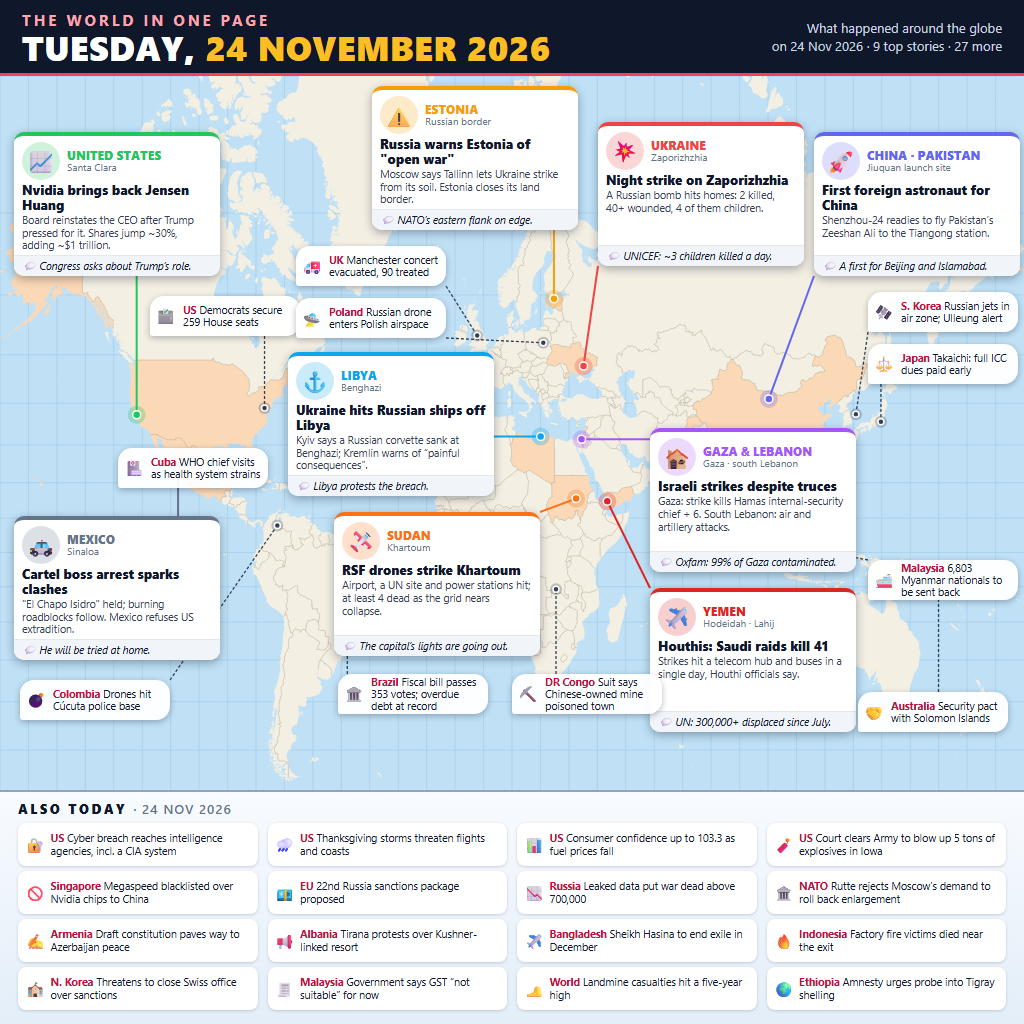
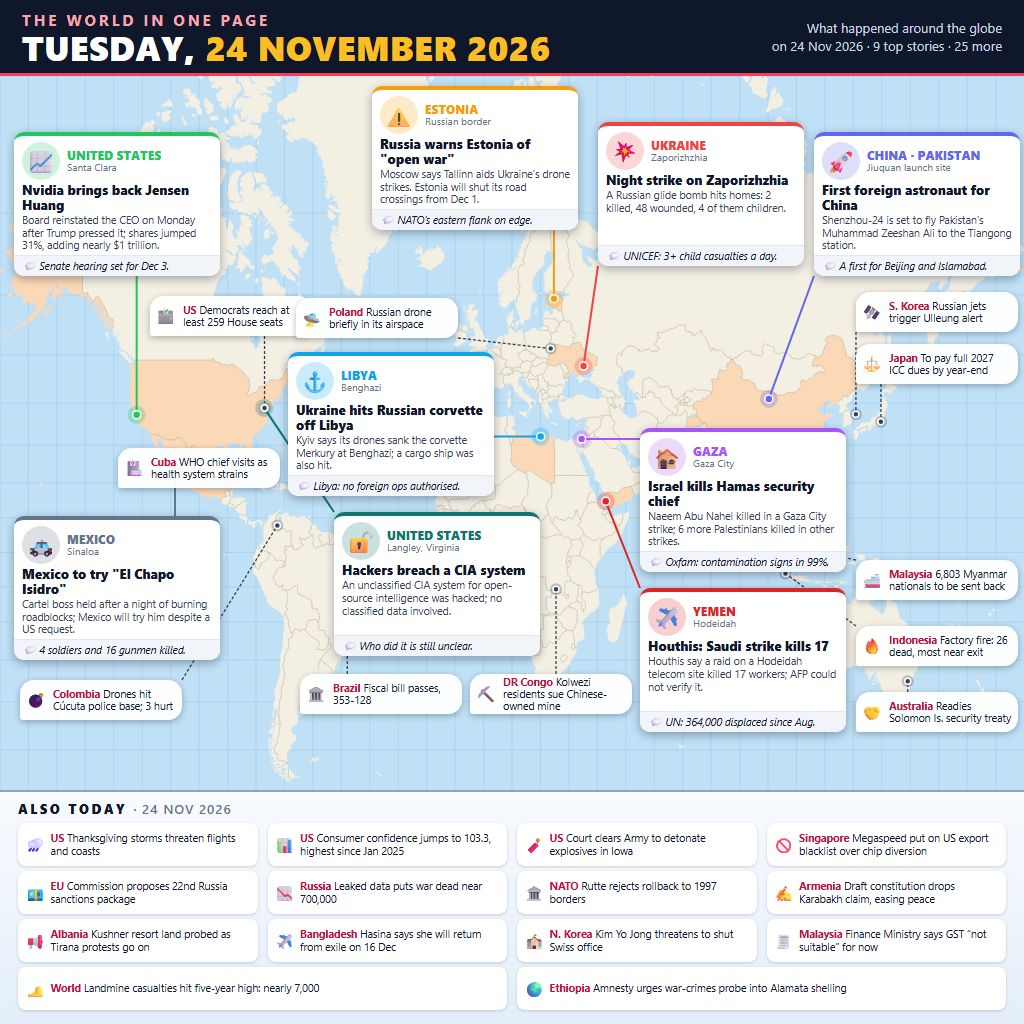
Fact-check every story and add a source ledger
Rewords cards to match wire and major-outlet reporting (Zaporizhzhia 2 killed,
48 wounded; a single corvette in the Libya headline; Yemen's sourced toll of 17),
drops stories from 22 Nov or without a reliable source (Sudan, Manchester,
south Lebanon), adds the CIA breach, and records every source in SOURCES.md.

diff --git a/SOURCES.md b/SOURCES.md
@@ -1,0 +1,121 @@
+# Source ledger — world news of Tuesday 24 November 2026
+
+Every story on [entry.png](entry.png), with the sources that support its wording. Checked on 25 Nov 2026.
+
+- **Read** = the page was opened and its text read. **Search only** = the URL and facts come from search results; the page itself was not opened (paywall, block or timeout). Every story has at least one read source.
+- **Date rule:** an event is kept if it happened on 24 Nov, or on 23 Nov and was still developing or first reported on 24 Nov. Events from 22 Nov or earlier were removed (see the end).
+- Casualty figures from parties to a conflict are attributed on the image ("Houthis say", "Kyiv says").
+
+## Major stories (9 large cards)
+
+### 1. United States — Nvidia brings back Jensen Huang
+On the image: *Board reinstated the CEO on Monday after Trump pressed it; shares jumped 31%, adding nearly $1 trillion.* · *Senate hearing set for Dec 3.*
+Date: reinstatement and share jump Mon 23 Nov; congressional fallout continued on 24 Nov.
+- CNBC, "Jensen Huang reinstated as Nvidia CEO. Stock skyrockets 31%", 23 Nov — **read** — https://www.cnbc.com/2026/11/23/nvidia-jensen-huang-ceo.html — reinstated "effective immediately", unanimous board vote with "input from senior levels of the United States government"; shares "closed up 31%"; Trump spoke to the board "directly and indirectly"; Sen. Tim Scott: Huang to testify at a Dec 3 hearing.
+- NBC News, "Jensen Huang reinstated as Nvidia CEO after Trump pushes board", 23 Nov — **read** — https://www.nbcnews.com/tech/tech-news/nvidia-reinstates-jensen-huang-rcna610864 — stock up 31%; senators Cornyn and Warren question Trump's role.
+- Yahoo Finance, "Nvidia Adds Nearly $1 Trillion in Value…", 23 Nov (US time) — **read** — https://finance.yahoo.com/markets/stocks/articles/nvidia-adds-nearly-1-trillion-221300670.html — "jumped 31% and added nearly $1 trillion of market value" (intraday).
+- Search only: Nvidia 8-K https://www.sec.gov/Archives/edgar/data/0001045810/000104581026000090/nov23pressrelease.htm · Bloomberg https://www.bloomberg.com/news/articles/2026-11-23/nvidia-reinstates-jensen-huang-as-ceo-with-government-input
+
+### 2. Estonia — Russia warns Estonia of "open war"
+On the image: *Moscow says Tallinn aids Ukraine's drone strikes. Estonia will shut its road crossings from Dec 1.* · *NATO's eastern flank on edge.* (editorial comment)
+Date: Russian Foreign Ministry statement Mon 23 Nov; Estonian PM comments and wide coverage 24 Nov.
+- Al Jazeera, "Russia threatens 'hostile' Estonia with 'open war'", 23 Nov — **read** — https://www.aljazeera.com/news/2026/11/23/russia-threatens-hostile-estonia-with-open-war — "on the verge of triggering open war with Russia"; crossings close "from December 1 for at least six months"; Estonia denies its territory is used.
+- CNBC, "Russia warns NATO member Estonia of 'open war'", 24 Nov — **read** — https://www.cnbc.com/2026/11/24/russia-estonia-ukraine-war-nato-finland.html — road crossings close from Dec 1.
+- Kyiv Post, 24 Nov — **read** — https://www.kyivpost.com/post/91134 — rail crossing still open; PM Michal on 24 Nov says closing it is possible.
+
+### 3. Ukraine — Night strike on Zaporizhzhia
+On the image: *A Russian glide bomb hits homes: 2 killed, 48 wounded, 4 of them children.* · *UNICEF: 3+ child casualties a day.*
+Date: overnight attack reported Tue 24 Nov.
+- AP (Arhirova, Hatton), "A Russian strike on Ukraine kills 2 and wounds 48 as Kyiv explains its attack in Libya", 24 Nov — **read** via KSAT — https://www.ksat.com/business/2026/11/24/a-russian-strike-on-ukraine-kills-2-and-wounds-48-as-kyiv-explains-its-attack-in-libya/ — 2 civilians killed, 48 wounded incl. 4 children; glide bomb; destroyed a private house and partly destroyed a five-storey building.
+- Boston Globe (same AP story), 24 Nov — **read** — https://www.bostonglobe.com/2026/11/24/world/russian-strike-ukraine-kills-2-wounds-48-kyiv-explains-its-attack-libya/
+- UNICEF, "Child casualties in Ukraine reach highest level in almost four years", 20 Nov — **read** — https://www.unicef.org/ukraine/en/press-releases/child-casualties-ukraine-reach-highest-level-almost-four-years-unicef — "an average of more than three children killed or injured every single day" (1,144 child casualties Jan–Oct 2026). The comment says *casualties*, not deaths.
+
+### 4. Libya — Ukraine hits Russian corvette off Libya
+On the image: *Kyiv says its drones sank the corvette Merkury at Benghazi; a cargo ship was also hit.* · *Libya: no foreign ops authorised.*
+Date: strike Sun 22 Nov; Zelensky's claim 23 Nov; Ukraine's explanation and Libya's protest reported 24 Nov (AP).
+- AP via KSAT, 24 Nov — **read** — (URL in story 3) — Libyan Foreign Ministry did not authorise "any foreign military operations within (Libya's) territory or territorial waters"; Ukraine "intended no harm to Libya"; photo captions name Merkury and MV Angara.
+- Time, "Zelensky Says Ukraine Sank Russian Warship at Naval Base in Libya", 23 Nov — **read** — https://time.com/article/2026/11/23/zelensky-says-ukraine-sank-russian-warship-at-naval-base-in-libya/ — drones "struck and sank the Russian corvette Mercury"; MV Angara also hit.
+- Al Jazeera, "Russia warns Ukraine of 'dangerous trend' after Libya and Baltic attacks", 23 Nov — **read** — https://www.aljazeera.com/news/2026/11/23/russia-warns-ukraine-of-dangerous-trend-after-libya-and-baltic-attacks
+- Note: the headline names the single corvette (the sunk vessel); the summary mentions the cargo ship, which sources say was hit, not sunk.
+
+### 5. Gaza — Israel kills Hamas security chief
+On the image: *Naeem Abu Nahel killed in a Gaza City strike; 6 more Palestinians killed in other strikes.* · *Oxfam: contamination signs in 99%.*
+Date: 24 Nov.
+- BBC via Yahoo, 24 Nov — **read** — https://www.yahoo.com/news/world/articles/israeli-air-strike-kills-hamas-121253345.html — "Naeem Abu Nahel", head of Hamas's internal security service; at least seven killed; "the six other people were killed in two earlier air strikes elsewhere in Gaza".
+- Times of Israel, "Israel kills Hamas security chief in Gaza City…", 24 Nov — **read** — https://www.timesofisrael.com/israel-kills-hamas-security-chief-in-gaza-city-weeks-after-capturing-predecessor/ — spells it "Naim Abu Nahal"; 3 killed in Khan Younis and 3 in Wadi Gaza.
+- ABC News (Australia), "Research finds more than 99 per cent of Gaza contaminated…", 24 Nov — **read** — https://www.abc.net.au/news/2026-11-24/israel-s-bombardment-turns-gaza-into-toxic-wasteland/107419898 — Oxfam/CEOBS report: Gaza "shows signs of contamination".
+
+### 6. Yemen — Houthis: Saudi strike kills 17
+On the image: *Houthis say a raid on a Hodeidah telecom site killed 17 workers; AFP could not verify it.* · *UN: 364,000 displaced since Aug.*
+Date: strike Mon 23 Nov; toll updated and reported 24 Nov.
+- Dawn (AFP), "Houthis say air strikes by Saudi-led coalition kill 17 in Yemen", 24 Nov — **read** — https://www.dawn.com/news/2046665/houthis-say-air-strikes-by-saudi-led-coalition-kill-17-in-yemen — AFP could not verify; buses also hit in Lahj, "causing casualties".
+- Xinhua, "Death toll from airstrikes on Yemen's Hodeidah rises to 17: Houthi media", 24 Nov — **read** — https://english.news.cn/20261124/dabb567e6907437eae42ccc4a2ccbcb3/c.html — 17 dead, 11 injured.
+- Middle East Eye, 23 Nov — **read** — https://www.middleeasteye.net/live-blog/live-blog-update/yemens-houthis-say-saudi-attack-telecoms-facilities-kills-17
+- UN News, "World News in Brief…", 24 Nov — **read** — https://news.un.org/en/story/2026/11/1168871 — "More than 364,000 people have been displaced in Yemen since the beginning of August."
+- **The "41 killed" figure was dropped:** the only reliable source for it, Middle East Eye (20 Nov, read, https://www.middleeasteye.net/live-blog/live-blog-update/houthis-say-41-killed-saudi-led-coalition-launches-special-operation), is a Houthi claim from 20 Nov, not tied to the telecom site or buses. Only Democracy Now (an aggregator) combined them.
+
+### 7. United States — Hackers breach a CIA system (replaces Sudan)
+On the image: *An unclassified CIA system for open-source intelligence was hacked; no classified data involved.* · *Who did it is still unclear.*
+Date: reported 24 Nov.
+- AP via Federal News Network, "An unclassified CIA system was breached in a cyberattack, AP source says", 24 Nov — **read** — https://federalnewsnetwork.com/cybersecurity/2026/11/an-unclassified-cia-system-was-breached-in-a-cyberattack-ap-source-says/ — system "handles open source intelligence"; "did not involve any classified information".
+- Nextgov/FCW, "CIA, ODNI unclassified intelligence system hacked", 24 Nov — **read** — https://www.nextgov.com/cybersecurity/2026/11/cia-odni-unclassified-intelligence-system-hacked/417438/ — "It's unclear who carried it out".
+- Search only: Washington Post https://www.washingtonpost.com/national-security/2026/11/24/hackers-breach-cia-unclassified-computer-system/ · Bloomberg https://www.bloomberg.com/news/articles/2026-11-24/hackers-breach-cia-system-to-access-unclassified-information
+
+### 8. China · Pakistan — First foreign astronaut for China
+On the image: *Shenzhou-24 is set to fly Pakistan's Muhammad Zeeshan Ali to the Tiangong station.* · *A first for Beijing and Islamabad.*
+Date: launch 25 Nov 00:18 UTC (08:18 Beijing); on 24 Nov it was imminent, hence "is set to fly".
+- Dawn, "'A new era begins': Pakistan's Zeeshan Ali becomes first foreigner to board China's Tiangong", 25 Nov — **read** — https://www.dawn.com/news/2046753 — launch times; crew Tang Hongbo, Wu Yi; first foreign crew member on the station.
+- NBC News, "China's Shenzhou 24 spacecraft docks at space station with first foreign astronaut", 25 Nov — **read** — https://www.nbcnews.com/world/china/china-shenzhou-24-spacecraft-docks-space-station-foreign-astronaut-rcna611251
+- Al Jazeera, "Pakistan's Zeeshan Ali set for historic flight to China's space station", 24 Nov — search only — https://www.aljazeera.com/news/2026/11/24/pakistans-zeeshan-ali-set-for-historic-flight-to-chinas-space-station
+
+### 9. Mexico — Mexico to try "El Chapo Isidro"
+On the image: *Cartel boss held after a night of burning roadblocks; Mexico will try him despite a US request.* · *4 soldiers and 16 gunmen killed.*
+Date: arrest Fri 20 Nov; decision to try him in Mexico Mon 23 Nov; Al Jazeera report 24 Nov.
+- Al Jazeera, "Mexico to try 'El Chapo Isidro' despite US extradition request", 24 Nov — **read** — https://www.aljazeera.com/news/2026/11/24/mexico-to-try-el-chapo-isidro-despite-us-extradition-request — AG Godoy: "We are going to put him on trial in this country"; arrest in Guasave, Sinaloa; 4 soldiers and 16 gunmen killed (Defence Ministry). No formal refusal of extradition, so the card says "despite a US request".
+- Mexico News Daily, 21 Nov — **read** — https://mexiconewsdaily.com/news/chapo-isidro-capture-sinaloa/ — roadblocks, torched vehicles.
+- Search only: Reuters via US News https://www.usnews.com/news/world/articles/2026-11-23/alleged-drug-lord-el-chapo-isidro-to-be-tried-in-mexico-official-says
+
+## Secondary stories (11 small cards)
+
+| Story on the image | Date | Source (read unless marked) | Facts supported |
+|---|---|---|---|
+| **US** Democrats reach at least 259 House seats | 24 Nov | Yahoo News, 24 Nov — https://www.yahoo.com/news/politics/article/final-2026-midterm-election-results-democrats-reach-258-house-seats-their-most-since-1992-as-foxx-concedes-in-north-carolina-what-they-can-and-cant-do-next-182515399.html | "majority grew to at least 259 seats on Tuesday" (TN-4 called); 3 seats still uncalled |
+| **Cuba** WHO chief visits as health system strains | 22–24 Nov visit | Al Jazeera (AP), 24 Nov — https://www.aljazeera.com/news/2026/11/24/who-chief-visits-cuba-as-healthcare-system-deteriorates | Tedros visit; shortages of syringes, vaccines, anaesthetics |
+| **Colombia** Drones hit Cúcuta police base; 3 hurt | 23 Nov | La República (EFE), 23 Nov — https://larepublica.pe/mundo/2026/11/23/ataque-con-drones-contra-la-policia-en-cucuta-deja-60-viviendas-danadas-dos-totalmente-destruidas-y-tres-heridos-754722 · El Tiempo, 23 Nov — https://www.eltiempo.com/colombia/otras-ciudades/reportan-explosiones-en-el-comando-de-la-policia-de-cucuta-norte-de-santander-habria-sido-atacado-con-drones-3603256 | explosive drones hit the police command; 3 civilians hurt, 60 homes damaged |
+| **Brazil** Fiscal bill passes, 353-128 | night of 23 Nov, reported 24 Nov | Portal NTVB, 24 Nov — https://ntvb.com.br/2026/11/24/camara-aprova-ajuste-fiscal-governo-lula-plp-299-2026/ | Chamber passes PLP 299/2026, 353–128 |
+| **DR Congo** Kolwezi residents sue Chinese-owned mine | suit filed 3 Nov; NPR report 24 Nov | NPR via KPBS, 24 Nov — https://www.kpbs.org/news/international/2026/11/24/bleeding-birth-defects-congo-residents-sue-over-alleged-mining-pollution | 27 Kolwezi residents sue the Zijin-owned COMMUS mine and the state |
+| **S. Korea** Russian jets trigger Ulleung alert | 24 Nov | Yonhap via Korea Times, 24 Nov — https://www.koreatimes.co.kr/southkorea/defense/20261124/s-korea-briefly-issues-alert-on-eastern-island-after-russian-airplanes-enter-air-defense-zone | ~5 Russian warplanes in KADIZ; evacuation alert on Ulleung |
+| **Japan** To pay full 2027 ICC dues by year-end | 24 Nov | Reuters via Daily Maverick, 24 Nov — https://www.dailymaverick.co.za/article/2026-11-24-japan-accelerates-icc-funding-as-us-sanctions-threaten-court/ | "full 2027 contribution… by year-end", ahead of US sanctions |
+| **Malaysia** 6,803 Myanmar nationals to be sent back | 24 Nov | Malay Mail, 24 Nov — https://www.malaymail.com/news/malaysia/2026/11/24/turkiye-not-ready-to-accept-10000-myanmar-refugees-from-malaysia-anwar-confirms/244535 · search only: AP via WRAL https://www.wral.com/news/ap/42b17-malaysia-to-repatriate-another-6-803-myanmar-nationals-despite-icj-genocide-ruling/ | Anwar in parliament: 6,803 to be repatriated in December, despite the ICJ ruling |
+| **Indonesia** Factory fire: 26 dead, most near exit | fire 21 Nov; toll and findings reported 24 Nov | AP via ABC News, 24 Nov — https://abcnews.com/International/wireStory/victims-indonesia-factory-fire-died-reach-emergency-exit-138402804 | 26 workers dead, 8 missing; most died trying to reach an emergency exit |
+| **Australia** Readies Solomon Is. security treaty | treaty signed 25 Nov; pre-signing coverage 24 Nov | Al Jazeera (AFP), 25 Nov — https://www.aljazeera.com/news/2026/11/25/solomon-islands-signs-security-deal-with-australia · search only: CNN, 24 Nov https://edition.cnn.com/2026/11/24/australia/solomon-islands-australia-security-pact-intl-hnk | bilateral security treaty, signed the next day in Canberra |
+| **Poland** Russian drone briefly in its airspace | overnight 23–24 Nov | ABC News (US), 24 Nov — https://abcnews.com/International/russian-drone-flies-poland-overnight-strikes-ukraine-warsaw/story?id=138403724 | drone "briefly violated Polish airspace" during strikes on Ukraine |
+
+## Also today (14 items in the strip below the map)
+
+| Item on the image | Date | Source (read unless marked) | Facts supported |
+|---|---|---|---|
+| **US** Thanksgiving storms threaten flights and coasts | 24 Nov | NBC News, 24 Nov — https://www.nbcnews.com/weather/storms/severe-thanksgiving-storms-threaten-millions-travelers-macys-parade-rcna611071 | airport delays expected; coastal flood watches; ~81m travellers |
+| **US** Consumer confidence jumps to 103.3, highest since Jan 2025 | 24 Nov | Conference Board via PR Newswire, 24 Nov — https://www.prnewswire.com/news-releases/us-consumer-confidence-surged-in-november-302949447.html | index 103.3, up 11.4 points (the earlier "fuel prices fall" cause was removed: not in the release) |
+| **US** Court clears Army to detonate explosives in Iowa | 23 Nov ruling; detonation set for 25 Nov | NBC News, 23 Nov (updated) — https://www.nbcnews.com/science/environment/trump-postpones-planned-detonation-toxic-drums-iowa-army-facility-rcna610945 | 8th Circuit lifts the stay; Army to proceed Wednesday |
+| **Singapore** Megaspeed put on US export blacklist over chip diversion | 23 Nov | Semafor, 23 Nov — https://www.semafor.com/article/11/23/2026/commerce-to-add-megaspeed-to-trade-blacklist | Commerce Entity List; "diversion of advanced computing commodities" |
+| **EU** Commission proposes 22nd Russia sanctions package | 23 Nov, updated 24 Nov | Euronews — https://www.euronews.com/2026/11/23/eu-goes-after-russias-banks-soldiers-and-athletes-in-new-sanctions-package | von der Leyen's proposal: banks, shadow fleet, athletes |
+| **Russia** Leaked data puts war dead near 700,000 | 23–24 Nov | Mediazona, 23 Nov — https://en.zona.media/article/2026/11/23/rosstat_leaked · Kyiv Independent — https://kyivindependent.com/russian-war-death-toll-likely-near-700-000-media-reports-after-studying-leaked-government-data/ | ≥490,000 registered deaths; "around 700,000" with missing soldiers |
+| **NATO** Rutte rejects rollback to 1997 borders | 23 Nov | NATO transcript — https://www.nato.int/en/news-and-events/events/transcripts/2026/11/23/joint-press-conference-by-the-secretary-general-with-the-federal-chancellor-of-germany | "What cannot happen is that we are forced to roll back NATO to the 1997 borders" |
+| **Armenia** Draft constitution drops Karabakh claim, easing peace | 23 Nov | Reuters via GMA News — https://www.gmanetwork.com/news/topstories/world/1010525/armenia-proposes-new-constitution-in-step-towards-peace-with-azerbaijan/story/ | preamble drops the Karabakh reunification reference; Azerbaijan: "no further obstacle" |
+| **Albania** Kushner resort land probed as Tirana protests go on | 24 Nov | NPR via WWNO, 24 Nov — https://www.wwno.org/npr-news/2026-11-24/who-really-owns-the-land-in-albania-that-jared-kushner-wants-to-develop | land "suspected of having been illegally acquired through forgery"; daily protests since 31 May |
+| **Bangladesh** Hasina says she will return from exile on 16 Dec | 24 Nov | Al Jazeera, 24 Nov — https://www.aljazeera.com/news/2026/11/24/sheikh-hasina-plans-to-return-to-bangladesh-from-exile-on-december-16 | spokesperson's statement on Tuesday; government seeks her extradition |
+| **N. Korea** Kim Yo Jong threatens to shut Swiss office | 24 Nov (KST) | Yonhap via Korea Times, 24 Nov — https://www.koreatimes.co.kr/foreignaffairs/northkorea/20261124/n-korea-threatens-to-close-swiss-office-in-pyongyang-over-sanctions-on-childrens-camp | sanctions on a children's camp an "open hostile act" (it escalated to an expulsion on 25 Nov KST) |
+| **Malaysia** Finance Ministry says GST "not suitable" for now | 24 Nov (inferred) | New Straits Times — https://www.nst.com.my/news/nation/2026/11/1584781/gst-not-suitable-now-due-low-incomes-high-cost-living-says-mof | headline read; body did not load. Weakest-sourced item: the date comes from the article ID and the search result |
+| **World** Landmine casualties hit five-year high: nearly 7,000 | 24 Nov | HALO Trust on Landmine Monitor 2026, 24 Nov — https://www.halotrust.org/press-releases/landmine-monitor-2026/ | "nearly 7,000" casualties in 2025, highest since 2020 |
+| **Ethiopia** Amnesty urges war-crimes probe into Alamata shelling | 24 Nov | Reuters via Yahoo, 24 Nov — https://www.yahoo.com/news/world/articles/ethiopian-shelling-tigray-town-investigated-044247231.html | Amnesty: shelling of Alamata in Sept should be probed as possible war crimes |
+
+## Removed after checking
+
+| Story | Why |
+|---|---|
+| Sudan: RSF drones strike Khartoum | Attack was on 22 Nov (Al Jazeera, https://www.aljazeera.com/news/2026/11/22/rsf-drones-kill-four-in-khartoum); "power stations" came from an October story; "airport hit" not supported. No reliable report of a 24 Nov Khartoum strike. |
+| UK: Manchester concert evacuated | Event on 22 Nov (Co-op Live, Don Toliver show). |
+| Lebanon: Israeli strikes in the south | 24 Nov reports found only in search results; no major outlet's page was read. |
+| Iran: Hormuz tanker blasts | Single aggregator source (openchronicle.org). |
+| Yemen "41 killed" | Houthi claim from 20 Nov, see story 6. |
